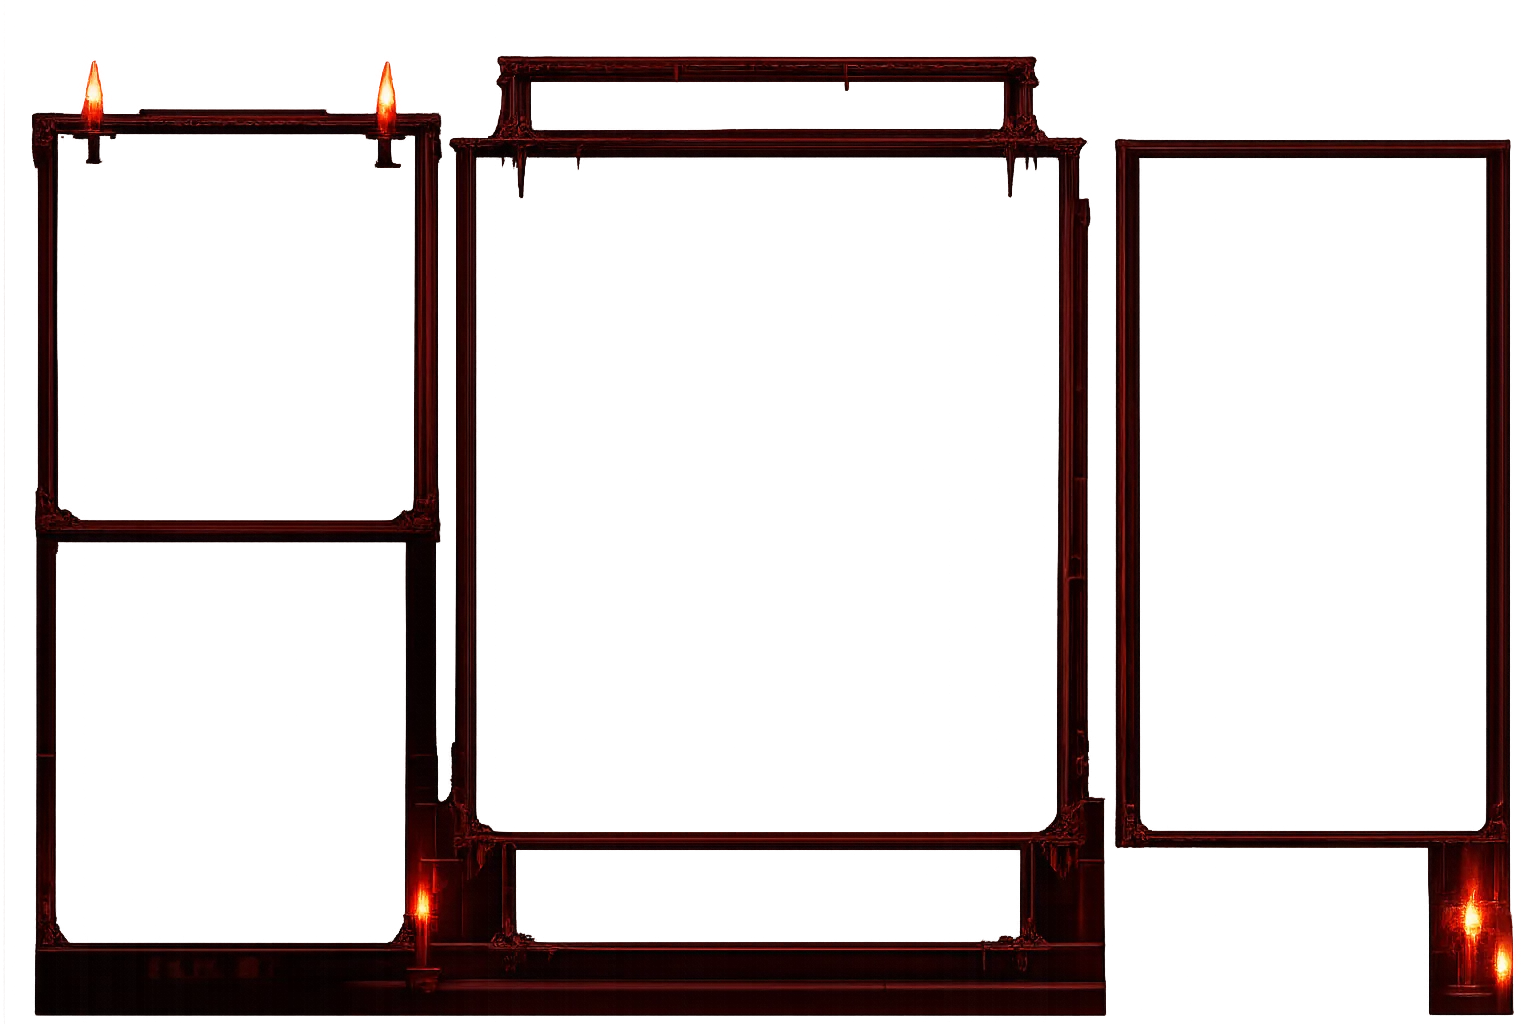
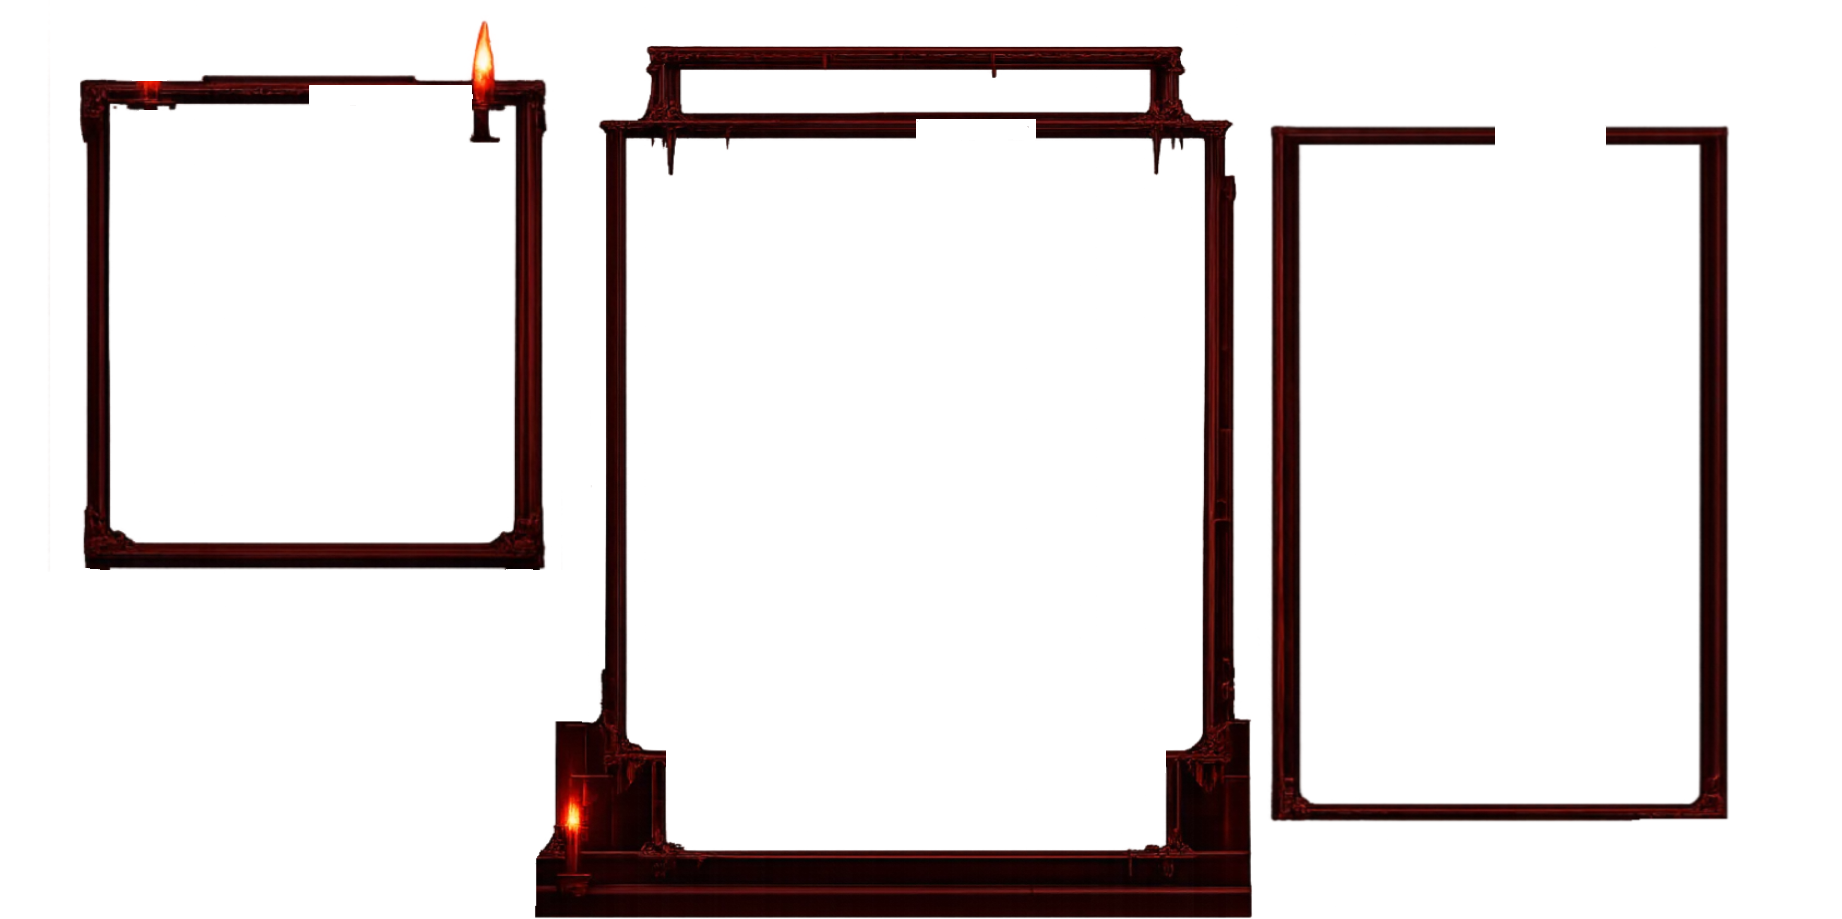
Use replaced Blood Moon frame asset

Changed region(s): [[0.0, 0.0305, 1.0, 1.0]]

diff --git a/templates/index.html b/templates/index.html
@@ -6,7 +6,7 @@
   <link rel="preload" as="image" href="{{ url_for('static', filename='themes/Dr41n-assets/Background.webp') }}">
   <link rel="preload" as="image" href="{{ url_for('static', filename='themes/Dr41n-assets/Dr41n hump overlay cropped.webp') }}">
   <link rel="preload" as="image" href="{{ url_for('static', filename='themes/blood-moon-assets/Background-clear.webp') }}">
-  <link rel="preload" as="image" href="{{ url_for('static', filename='themes/blood-moon-assets/Frame-solid.webp') }}">
+  <link rel="preload" as="image" href="{{ url_for('static', filename='themes/blood-moon-assets/Frame.webp') }}">
   <link
     rel="stylesheet"
     href="https://unpkg.com/leaflet@1.9.4/dist/leaflet.css"

diff --git a/static/styles.css b/static/styles.css
@@ -2915,8 +2915,8 @@ html[data-theme="blood-red"] .desktop::before {
   pointer-events: none;
   z-index: 30;
   opacity: 1;
-  filter: contrast(1.22) saturate(1.1) brightness(1.05);
-  background: url("/static/themes/blood-moon-assets/Frame-solid.webp") center center / 100% 100% no-repeat !important;
+  filter: contrast(1.06) saturate(1.02) brightness(1.01);
+  background: url("/static/themes/blood-moon-assets/Frame.webp") center center / 100% 100% no-repeat !important;
 }
 
 @media (max-width: 980px) {

diff --git a/static/app.js b/static/app.js
@@ -141,7 +141,7 @@
       "/static/themes/Dr41n-assets/Background.webp",
       "/static/themes/Dr41n-assets/Dr41n%20hump%20overlay%20cropped.webp",
       "/static/themes/blood-moon-assets/Background-clear.webp",
-      "/static/themes/blood-moon-assets/Frame-solid.webp",
+      "/static/themes/blood-moon-assets/Frame.webp",
     ];
     for (const src of referenceImages) {
       const img = new Image();
